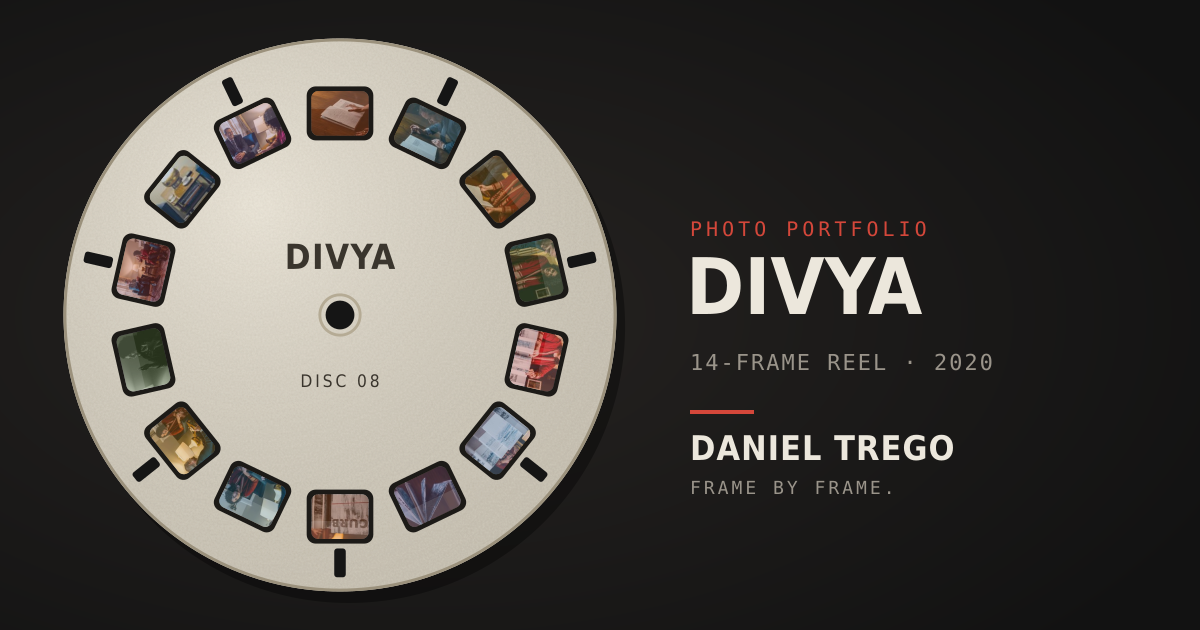
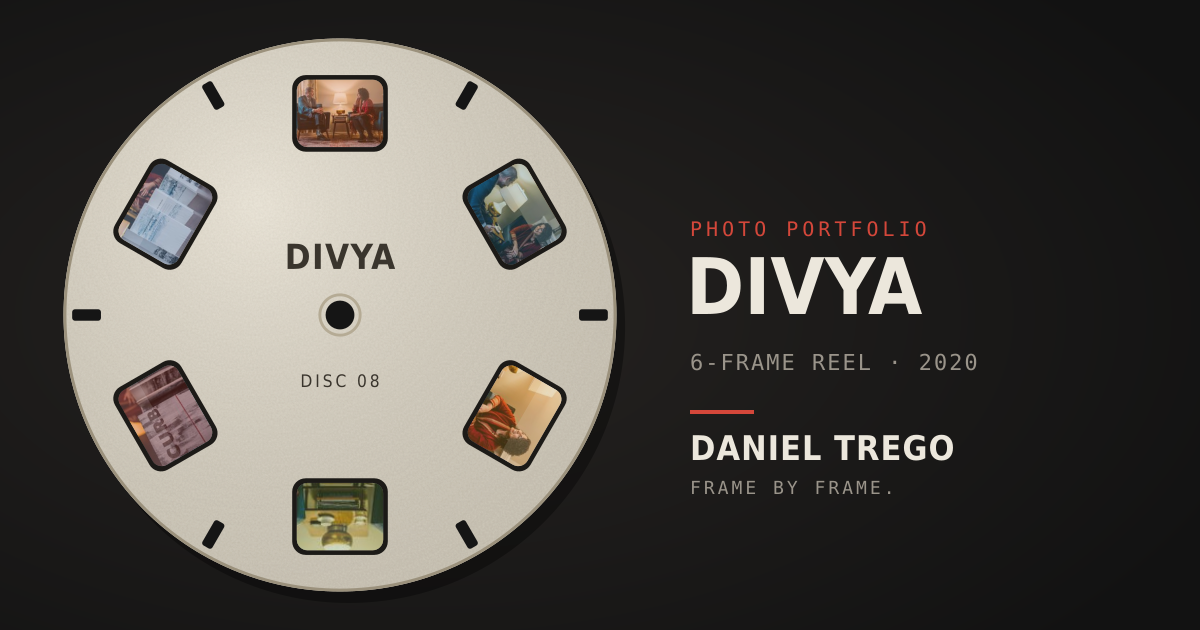
Publish selected website content from private portfolio repo

diff --git a/reel/divya/index.html b/reel/divya/index.html
@@ -1,11 +1,11 @@
 <!DOCTYPE html>
 <html lang="en"><head><meta charset="utf-8">
 <title>Divya · Daniel Trego</title>
-<meta name="description" content="A 14-frame reel, 2020.">
+<meta name="description" content="A 6-frame reel, 2020.">
 <meta property="og:type" content="website">
 <meta property="og:site_name" content="Daniel Trego">
 <meta property="og:title" content="Divya · Daniel Trego">
-<meta property="og:description" content="A 14-frame reel, 2020.">
+<meta property="og:description" content="A 6-frame reel, 2020.">
 <meta property="og:url" content="https://danieltrego.com/reel/divya/">
 <meta property="og:image" content="https://danieltrego.com/reel/divya/card.png">
 <meta property="og:image:width" content="1200">
@@ -13,7 +13,7 @@
 <meta property="og:image:alt" content="Divya reel">
 <meta name="twitter:card" content="summary_large_image">
 <meta name="twitter:title" content="Divya · Daniel Trego">
-<meta name="twitter:description" content="A 14-frame reel, 2020.">
+<meta name="twitter:description" content="A 6-frame reel, 2020.">
 <meta name="twitter:image" content="https://danieltrego.com/reel/divya/card.png">
 <link rel="canonical" href="https://danieltrego.com/reel/divya/">
 <meta http-equiv="refresh" content="0; url=/portfolio/?disc=divya">
